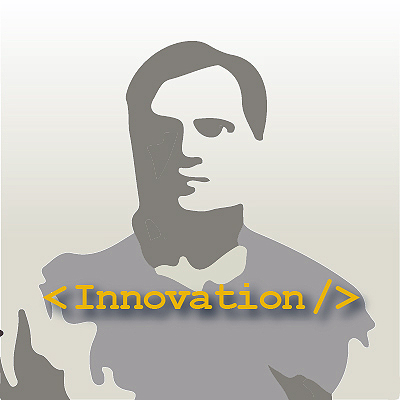
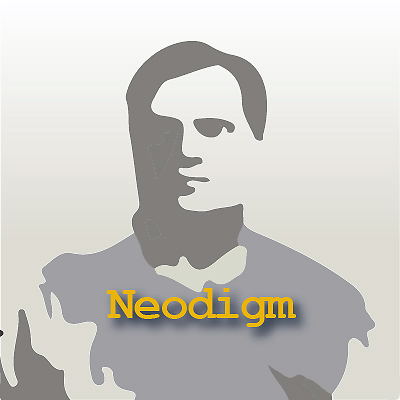
content clea-up same theme for now

Changed region(s): [[0.09, 0.69, 0.93, 0.87]]

diff --git a/neodigm-wasm-golang/posts/cross-domain-iframe-form-submission-tracking-google-analytics/index.html b/neodigm-wasm-golang/posts/cross-domain-iframe-form-submission-tracking-google-analytics/index.html
@@ -1,7 +1,7 @@
 <!doctype html>
 <html lang="en-us">
   <head>
-    <title>Cross Domain Iframe Form Submission Tracking Google Analytics // Scott C. Krause Neodigm</title>
+    <title>Cross Domain Iframe Form Submission Tracking Google Analytics // Scott C. Krause</title>
     <meta charset="utf-8" />
     <meta name="generator" content="Hugo 0.69.0" />
     <meta name="viewport" content="width=device-width, initial-scale=1" />
@@ -28,8 +28,8 @@ Here is the common scenario; Your client has a landing page with a 3rd party for
   <body>
     <header class="app-header">
       <a href="https://thescottkrause.com/neodigm-wasm-golang/"><img class="app-header-avatar" src="/neodigm-wasm-golang/avatar.jpg" alt="Scott C. Krause" /></a>
-      <h1>Scott C. Krause Neodigm</h1>
-      <p>Interactive Designer | A creative blend of technical wizardry and business perspective. 🚀 Inspired Problem Solver 🪐 Visual Storyteller</p>
+      <h1>Scott C. Krause</h1>
+      <p>Interactive UX Designer</p>
       <div class="app-header-social">
         
           <a target="_blank" href="https://github.com/neodigm" rel="noreferrer noopener"><svg xmlns="http://www.w3.org/2000/svg" width="24" height="24" viewBox="0 0 24 24" fill="none" stroke="currentColor" stroke-width="2" stroke-linecap="round" stroke-linejoin="round" class="icon icon-github">
@@ -79,7 +79,7 @@ Here is the common scenario; Your client has a landing page with a 3rd party for
       <h2 id="strategies-for-tracking-3rd-party-iframe-forms-with-google-analytics"><em><strong>Strategies for tracking 3rd party iFrame forms with Google Analytics</strong></em></h2>
 <p>Measuring activity within an iFrame can be challenging if not impossible. For those responsible for digital marketing an iFrame submission might be the only way to track a goal or KPI measurement. Some iFrame implementations are easy, some are difficult, and some are just impossible.</p>
 <p>Here is the common scenario; Your client has a landing page with a 3rd party form and wants to track engagements. If that form can be redirected to a dedicated &ldquo;thank you&rdquo; page, then no problem, simply include the analytics on that page. That is how Saleforce&rsquo;s Web to Lead works, easy enough. </p>
-<p>Some 3rd party forms support a JavaScript facility known as Window.postMessage(). This allows the page to talk to an iFrame only if the iFrame is willing to listen. Meaning it has been designed to communicate with its parent important events such as a form submission.</p>
+<p>Some 3rd party forms support a JavaScript facility known as Window.postMessage(). This allows the page to talk to an iFrame only if the iFrame is willing to listen. Meaning it has been designed to communicate with its parent the status of important events such as a form submission.</p>
 <p>If JavaScript integration is not supported then you still have one more option; listen for iFrame focus. Unfortunately this will not tell you when a form has been submitted only that it has been accessed. Not as good but, frankly you&rsquo;ve exhausted your options. On the bright side the data collected can affirm the landing pages design, tone, and target. Meaning if nobody is clicking on the iFrame you might need to reconsider the user experience.</p>
 <p><img src="/neodigm-wasm-golang/img/browser_wasm_golang.png" alt="iFrame Diagram WASM GoLang"></p>
 <div class="highlight"><pre style="color:#f8f8f2;background-color:#272822;-moz-tab-size:4;-o-tab-size:4;tab-size:4"><code class="language-javascript" data-lang="javascript"><span style="color:#75715e">// Fire cust GA event when any iFrame reloads
@@ -107,7 +107,7 @@ Here is the common scenario; Your client has a landing page with a 3rd party for
         }
     }
 })( document, <span style="color:#e6db74">&#34;iframe&#34;</span>);
-<span style="color:#75715e">// dom load
+<span style="color:#75715e">// TODO DOM load
 </span><span style="color:#75715e">// try catch
 </span><span style="color:#75715e">// test in ie11
 </span></code></pre></div>

diff --git a/neodigm-wasm-golang/index.html b/neodigm-wasm-golang/index.html
@@ -1,21 +1,21 @@
 <!doctype html>
 <html lang="en-us">
   <head>
-    <title>Scott C. Krause Neodigm</title>
+    <title>Scott C. Krause</title>
     <meta charset="utf-8" />
     <meta name="generator" content="Hugo 0.69.0" />
     <meta name="viewport" content="width=device-width, initial-scale=1" />
     <meta name="author" content="Scott C. Krause" />
-    <meta name="description" content="Interactive Designer | A creative blend of technical wizardry and business perspective. 🚀 Inspired Problem Solver 🪐 Visual Storyteller" />
+    <meta name="description" content="Interactive UX Designer" />
     <link rel="stylesheet" href="https://thescottkrause.com/neodigm-wasm-golang/css/main.min.089d698efe87c7804b47d4e029e36cadc2583deb3bdacebf2b6b1f22da7f967d.css" />
 
     
     <meta name="twitter:card" content="summary"/>
-<meta name="twitter:title" content="Scott C. Krause Neodigm"/>
-<meta name="twitter:description" content="Interactive Designer | A creative blend of technical wizardry and business perspective. 🚀 Inspired Problem Solver 🪐 Visual Storyteller"/>
+<meta name="twitter:title" content="Scott C. Krause"/>
+<meta name="twitter:description" content="Interactive UX Designer"/>
 
-    <meta property="og:title" content="Scott C. Krause Neodigm" />
-<meta property="og:description" content="Interactive Designer | A creative blend of technical wizardry and business perspective. 🚀 Inspired Problem Solver 🪐 Visual Storyteller" />
+    <meta property="og:title" content="Scott C. Krause" />
+<meta property="og:description" content="Interactive UX Designer" />
 <meta property="og:type" content="website" />
 <meta property="og:url" content="https://thescottkrause.com/neodigm-wasm-golang/" />
 <meta property="og:updated_time" content="2020-04-19T14:57:33-05:00" />
@@ -25,8 +25,8 @@
   <body>
     <header class="app-header">
       <a href="https://thescottkrause.com/neodigm-wasm-golang/"><img class="app-header-avatar" src="/neodigm-wasm-golang/avatar.jpg" alt="Scott C. Krause" /></a>
-      <h1>Scott C. Krause Neodigm</h1>
-      <p>Interactive Designer | A creative blend of technical wizardry and business perspective. 🚀 Inspired Problem Solver 🪐 Visual Storyteller</p>
+      <h1>Scott C. Krause</h1>
+      <p>Interactive UX Designer</p>
       <div class="app-header-social">
         
           <a target="_blank" href="https://github.com/neodigm" rel="noreferrer noopener"><svg xmlns="http://www.w3.org/2000/svg" width="24" height="24" viewBox="0 0 24 24" fill="none" stroke="currentColor" stroke-width="2" stroke-linecap="round" stroke-linejoin="round" class="icon icon-github">
@@ -49,7 +49,7 @@
     <main class="app-container">
       
   <article>
-    <h1>Scott C. Krause Neodigm</h1>
+    <h1>Scott C. Krause</h1>
     <ul class="posts-list">
       
         <li class="posts-list-item">

diff --git a/neodigm-wasm-golang/tags/marketing-automation/index.html b/neodigm-wasm-golang/tags/marketing-automation/index.html
@@ -1,7 +1,7 @@
 <!doctype html>
 <html lang="en-us">
   <head>
-    <title>Marketing Automation // Scott C. Krause Neodigm</title>
+    <title>Marketing Automation // Scott C. Krause</title>
     <meta charset="utf-8" />
     <meta name="generator" content="Hugo 0.69.0" />
     <meta name="viewport" content="width=device-width, initial-scale=1" />
@@ -12,10 +12,10 @@
     
     <meta name="twitter:card" content="summary"/>
 <meta name="twitter:title" content="Marketing Automation"/>
-<meta name="twitter:description" content="Interactive Designer | A creative blend of technical wizardry and business perspective. 🚀 Inspired Problem Solver 🪐 Visual Storyteller"/>
+<meta name="twitter:description" content="Interactive UX Designer"/>
 
     <meta property="og:title" content="Marketing Automation" />
-<meta property="og:description" content="Interactive Designer | A creative blend of technical wizardry and business perspective. 🚀 Inspired Problem Solver 🪐 Visual Storyteller" />
+<meta property="og:description" content="Interactive UX Designer" />
 <meta property="og:type" content="website" />
 <meta property="og:url" content="https://thescottkrause.com/neodigm-wasm-golang/tags/marketing-automation/" />
 <meta property="og:updated_time" content="2020-04-19T14:57:33-05:00" />
@@ -25,8 +25,8 @@
   <body>
     <header class="app-header">
       <a href="https://thescottkrause.com/neodigm-wasm-golang/"><img class="app-header-avatar" src="/neodigm-wasm-golang/avatar.jpg" alt="Scott C. Krause" /></a>
-      <h1>Scott C. Krause Neodigm</h1>
-      <p>Interactive Designer | A creative blend of technical wizardry and business perspective. 🚀 Inspired Problem Solver 🪐 Visual Storyteller</p>
+      <h1>Scott C. Krause</h1>
+      <p>Interactive UX Designer</p>
       <div class="app-header-social">
         
           <a target="_blank" href="https://github.com/neodigm" rel="noreferrer noopener"><svg xmlns="http://www.w3.org/2000/svg" width="24" height="24" viewBox="0 0 24 24" fill="none" stroke="currentColor" stroke-width="2" stroke-linecap="round" stroke-linejoin="round" class="icon icon-github">

diff --git a/neodigm-wasm-golang/tags/javascript/index.html b/neodigm-wasm-golang/tags/javascript/index.html
@@ -1,7 +1,7 @@
 <!doctype html>
 <html lang="en-us">
   <head>
-    <title>JavaScript // Scott C. Krause Neodigm</title>
+    <title>JavaScript // Scott C. Krause</title>
     <meta charset="utf-8" />
     <meta name="generator" content="Hugo 0.69.0" />
     <meta name="viewport" content="width=device-width, initial-scale=1" />
@@ -12,10 +12,10 @@
     
     <meta name="twitter:card" content="summary"/>
 <meta name="twitter:title" content="JavaScript"/>
-<meta name="twitter:description" content="Interactive Designer | A creative blend of technical wizardry and business perspective. 🚀 Inspired Problem Solver 🪐 Visual Storyteller"/>
+<meta name="twitter:description" content="Interactive UX Designer"/>
 
     <meta property="og:title" content="JavaScript" />
-<meta property="og:description" content="Interactive Designer | A creative blend of technical wizardry and business perspective. 🚀 Inspired Problem Solver 🪐 Visual Storyteller" />
+<meta property="og:description" content="Interactive UX Designer" />
 <meta property="og:type" content="website" />
 <meta property="og:url" content="https://thescottkrause.com/neodigm-wasm-golang/tags/javascript/" />
 <meta property="og:updated_time" content="2020-04-19T14:57:33-05:00" />
@@ -25,8 +25,8 @@
   <body>
     <header class="app-header">
       <a href="https://thescottkrause.com/neodigm-wasm-golang/"><img class="app-header-avatar" src="/neodigm-wasm-golang/avatar.jpg" alt="Scott C. Krause" /></a>
-      <h1>Scott C. Krause Neodigm</h1>
-      <p>Interactive Designer | A creative blend of technical wizardry and business perspective. 🚀 Inspired Problem Solver 🪐 Visual Storyteller</p>
+      <h1>Scott C. Krause</h1>
+      <p>Interactive UX Designer</p>
       <div class="app-header-social">
         
           <a target="_blank" href="https://github.com/neodigm" rel="noreferrer noopener"><svg xmlns="http://www.w3.org/2000/svg" width="24" height="24" viewBox="0 0 24 24" fill="none" stroke="currentColor" stroke-width="2" stroke-linecap="round" stroke-linejoin="round" class="icon icon-github">

diff --git a/neodigm-wasm-golang/categories/index.html b/neodigm-wasm-golang/categories/index.html
@@ -1,7 +1,7 @@
 <!doctype html>
 <html lang="en-us">
   <head>
-    <title>Categories // Scott C. Krause Neodigm</title>
+    <title>Categories // Scott C. Krause</title>
     <meta charset="utf-8" />
     <meta name="generator" content="Hugo 0.69.0" />
     <meta name="viewport" content="width=device-width, initial-scale=1" />
@@ -12,10 +12,10 @@
     
     <meta name="twitter:card" content="summary"/>
 <meta name="twitter:title" content="Categories"/>
-<meta name="twitter:description" content="Interactive Designer | A creative blend of technical wizardry and business perspective. 🚀 Inspired Problem Solver 🪐 Visual Storyteller"/>
+<meta name="twitter:description" content="Interactive UX Designer"/>
 
     <meta property="og:title" content="Categories" />
-<meta property="og:description" content="Interactive Designer | A creative blend of technical wizardry and business perspective. 🚀 Inspired Problem Solver 🪐 Visual Storyteller" />
+<meta property="og:description" content="Interactive UX Designer" />
 <meta property="og:type" content="website" />
 <meta property="og:url" content="https://thescottkrause.com/neodigm-wasm-golang/categories/" />
 <meta property="og:updated_time" content="2020-04-19T14:57:33-05:00" />
@@ -25,8 +25,8 @@
   <body>
     <header class="app-header">
       <a href="https://thescottkrause.com/neodigm-wasm-golang/"><img class="app-header-avatar" src="/neodigm-wasm-golang/avatar.jpg" alt="Scott C. Krause" /></a>
-      <h1>Scott C. Krause Neodigm</h1>
-      <p>Interactive Designer | A creative blend of technical wizardry and business perspective. 🚀 Inspired Problem Solver 🪐 Visual Storyteller</p>
+      <h1>Scott C. Krause</h1>
+      <p>Interactive UX Designer</p>
       <div class="app-header-social">
         
           <a target="_blank" href="https://github.com/neodigm" rel="noreferrer noopener"><svg xmlns="http://www.w3.org/2000/svg" width="24" height="24" viewBox="0 0 24 24" fill="none" stroke="currentColor" stroke-width="2" stroke-linecap="round" stroke-linejoin="round" class="icon icon-github">

diff --git a/neodigm-wasm-golang/categories/how-to/index.html b/neodigm-wasm-golang/categories/how-to/index.html
@@ -1,7 +1,7 @@
 <!doctype html>
 <html lang="en-us">
   <head>
-    <title>How To // Scott C. Krause Neodigm</title>
+    <title>How To // Scott C. Krause</title>
     <meta charset="utf-8" />
     <meta name="generator" content="Hugo 0.69.0" />
     <meta name="viewport" content="width=device-width, initial-scale=1" />
@@ -12,10 +12,10 @@
     
     <meta name="twitter:card" content="summary"/>
 <meta name="twitter:title" content="How To"/>
-<meta name="twitter:description" content="Interactive Designer | A creative blend of technical wizardry and business perspective. 🚀 Inspired Problem Solver 🪐 Visual Storyteller"/>
+<meta name="twitter:description" content="Interactive UX Designer"/>
 
     <meta property="og:title" content="How To" />
-<meta property="og:description" content="Interactive Designer | A creative blend of technical wizardry and business perspective. 🚀 Inspired Problem Solver 🪐 Visual Storyteller" />
+<meta property="og:description" content="Interactive UX Designer" />
 <meta property="og:type" content="website" />
 <meta property="og:url" content="https://thescottkrause.com/neodigm-wasm-golang/categories/how-to/" />
 <meta property="og:updated_time" content="2020-04-19T14:57:33-05:00" />
@@ -25,8 +25,8 @@
   <body>
     <header class="app-header">
       <a href="https://thescottkrause.com/neodigm-wasm-golang/"><img class="app-header-avatar" src="/neodigm-wasm-golang/avatar.jpg" alt="Scott C. Krause" /></a>
-      <h1>Scott C. Krause Neodigm</h1>
-      <p>Interactive Designer | A creative blend of technical wizardry and business perspective. 🚀 Inspired Problem Solver 🪐 Visual Storyteller</p>
+      <h1>Scott C. Krause</h1>
+      <p>Interactive UX Designer</p>
       <div class="app-header-social">
         
           <a target="_blank" href="https://github.com/neodigm" rel="noreferrer noopener"><svg xmlns="http://www.w3.org/2000/svg" width="24" height="24" viewBox="0 0 24 24" fill="none" stroke="currentColor" stroke-width="2" stroke-linecap="round" stroke-linejoin="round" class="icon icon-github">

diff --git a/neodigm-wasm-golang/posts/index.html b/neodigm-wasm-golang/posts/index.html
@@ -1,7 +1,7 @@
 <!doctype html>
 <html lang="en-us">
   <head>
-    <title>Posts // Scott C. Krause Neodigm</title>
+    <title>Posts // Scott C. Krause</title>
     <meta charset="utf-8" />
     <meta name="generator" content="Hugo 0.69.0" />
     <meta name="viewport" content="width=device-width, initial-scale=1" />
@@ -12,10 +12,10 @@
     
     <meta name="twitter:card" content="summary"/>
 <meta name="twitter:title" content="Posts"/>
-<meta name="twitter:description" content="Interactive Designer | A creative blend of technical wizardry and business perspective. 🚀 Inspired Problem Solver 🪐 Visual Storyteller"/>
+<meta name="twitter:description" content="Interactive UX Designer"/>
 
     <meta property="og:title" content="Posts" />
-<meta property="og:description" content="Interactive Designer | A creative blend of technical wizardry and business perspective. 🚀 Inspired Problem Solver 🪐 Visual Storyteller" />
+<meta property="og:description" content="Interactive UX Designer" />
 <meta property="og:type" content="website" />
 <meta property="og:url" content="https://thescottkrause.com/neodigm-wasm-golang/posts/" />
 <meta property="og:updated_time" content="2020-04-19T14:57:33-05:00" />
@@ -25,8 +25,8 @@
   <body>
     <header class="app-header">
       <a href="https://thescottkrause.com/neodigm-wasm-golang/"><img class="app-header-avatar" src="/neodigm-wasm-golang/avatar.jpg" alt="Scott C. Krause" /></a>
-      <h1>Scott C. Krause Neodigm</h1>
-      <p>Interactive Designer | A creative blend of technical wizardry and business perspective. 🚀 Inspired Problem Solver 🪐 Visual Storyteller</p>
+      <h1>Scott C. Krause</h1>
+      <p>Interactive UX Designer</p>
       <div class="app-header-social">
         
           <a target="_blank" href="https://github.com/neodigm" rel="noreferrer noopener"><svg xmlns="http://www.w3.org/2000/svg" width="24" height="24" viewBox="0 0 24 24" fill="none" stroke="currentColor" stroke-width="2" stroke-linecap="round" stroke-linejoin="round" class="icon icon-github">

diff --git a/neodigm-wasm-golang/tags/index.html b/neodigm-wasm-golang/tags/index.html
@@ -1,7 +1,7 @@
 <!doctype html>
 <html lang="en-us">
   <head>
-    <title>Tags // Scott C. Krause Neodigm</title>
+    <title>Tags // Scott C. Krause</title>
     <meta charset="utf-8" />
     <meta name="generator" content="Hugo 0.69.0" />
     <meta name="viewport" content="width=device-width, initial-scale=1" />
@@ -12,10 +12,10 @@
     
     <meta name="twitter:card" content="summary"/>
 <meta name="twitter:title" content="Tags"/>
-<meta name="twitter:description" content="Interactive Designer | A creative blend of technical wizardry and business perspective. 🚀 Inspired Problem Solver 🪐 Visual Storyteller"/>
+<meta name="twitter:description" content="Interactive UX Designer"/>
 
     <meta property="og:title" content="Tags" />
-<meta property="og:description" content="Interactive Designer | A creative blend of technical wizardry and business perspective. 🚀 Inspired Problem Solver 🪐 Visual Storyteller" />
+<meta property="og:description" content="Interactive UX Designer" />
 <meta property="og:type" content="website" />
 <meta property="og:url" content="https://thescottkrause.com/neodigm-wasm-golang/tags/" />
 <meta property="og:updated_time" content="2020-04-19T14:57:33-05:00" />
@@ -25,8 +25,8 @@
   <body>
     <header class="app-header">
       <a href="https://thescottkrause.com/neodigm-wasm-golang/"><img class="app-header-avatar" src="/neodigm-wasm-golang/avatar.jpg" alt="Scott C. Krause" /></a>
-      <h1>Scott C. Krause Neodigm</h1>
-      <p>Interactive Designer | A creative blend of technical wizardry and business perspective. 🚀 Inspired Problem Solver 🪐 Visual Storyteller</p>
+      <h1>Scott C. Krause</h1>
+      <p>Interactive UX Designer</p>
       <div class="app-header-social">
         
           <a target="_blank" href="https://github.com/neodigm" rel="noreferrer noopener"><svg xmlns="http://www.w3.org/2000/svg" width="24" height="24" viewBox="0 0 24 24" fill="none" stroke="currentColor" stroke-width="2" stroke-linecap="round" stroke-linejoin="round" class="icon icon-github">

diff --git a/neodigm-wasm-golang/404.html b/neodigm-wasm-golang/404.html
@@ -1,7 +1,7 @@
 <!doctype html>
 <html lang="en-us">
   <head>
-    <title>404 Page not found // Scott C. Krause Neodigm</title>
+    <title>404 Page not found // Scott C. Krause</title>
     <meta charset="utf-8" />
     <meta name="generator" content="Hugo 0.69.0" />
     <meta name="viewport" content="width=device-width, initial-scale=1" />
@@ -12,10 +12,10 @@
     
     <meta name="twitter:card" content="summary"/>
 <meta name="twitter:title" content="404 Page not found"/>
-<meta name="twitter:description" content="Interactive Designer | A creative blend of technical wizardry and business perspective. 🚀 Inspired Problem Solver 🪐 Visual Storyteller"/>
+<meta name="twitter:description" content="Interactive UX Designer"/>
 
     <meta property="og:title" content="404 Page not found" />
-<meta property="og:description" content="Interactive Designer | A creative blend of technical wizardry and business perspective. 🚀 Inspired Problem Solver 🪐 Visual Storyteller" />
+<meta property="og:description" content="Interactive UX Designer" />
 <meta property="og:type" content="website" />
 <meta property="og:url" content="https://thescottkrause.com/neodigm-wasm-golang/404.html" />
 
@@ -25,8 +25,8 @@
   <body>
     <header class="app-header">
       <a href="https://thescottkrause.com/neodigm-wasm-golang/"><img class="app-header-avatar" src="/neodigm-wasm-golang/avatar.jpg" alt="Scott C. Krause" /></a>
-      <h1>Scott C. Krause Neodigm</h1>
-      <p>Interactive Designer | A creative blend of technical wizardry and business perspective. 🚀 Inspired Problem Solver 🪐 Visual Storyteller</p>
+      <h1>Scott C. Krause</h1>
+      <p>Interactive UX Designer</p>
       <div class="app-header-social">
         
           <a target="_blank" href="https://github.com/neodigm" rel="noreferrer noopener"><svg xmlns="http://www.w3.org/2000/svg" width="24" height="24" viewBox="0 0 24 24" fill="none" stroke="currentColor" stroke-width="2" stroke-linecap="round" stroke-linejoin="round" class="icon icon-github">
